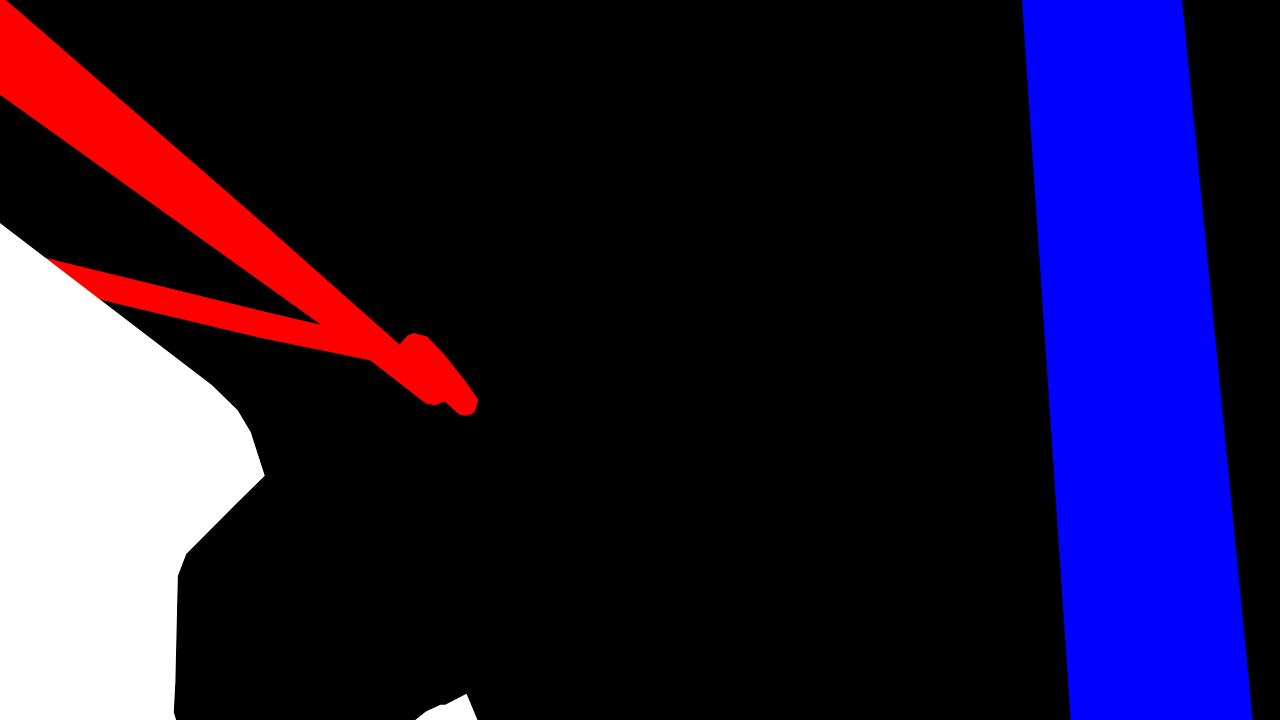
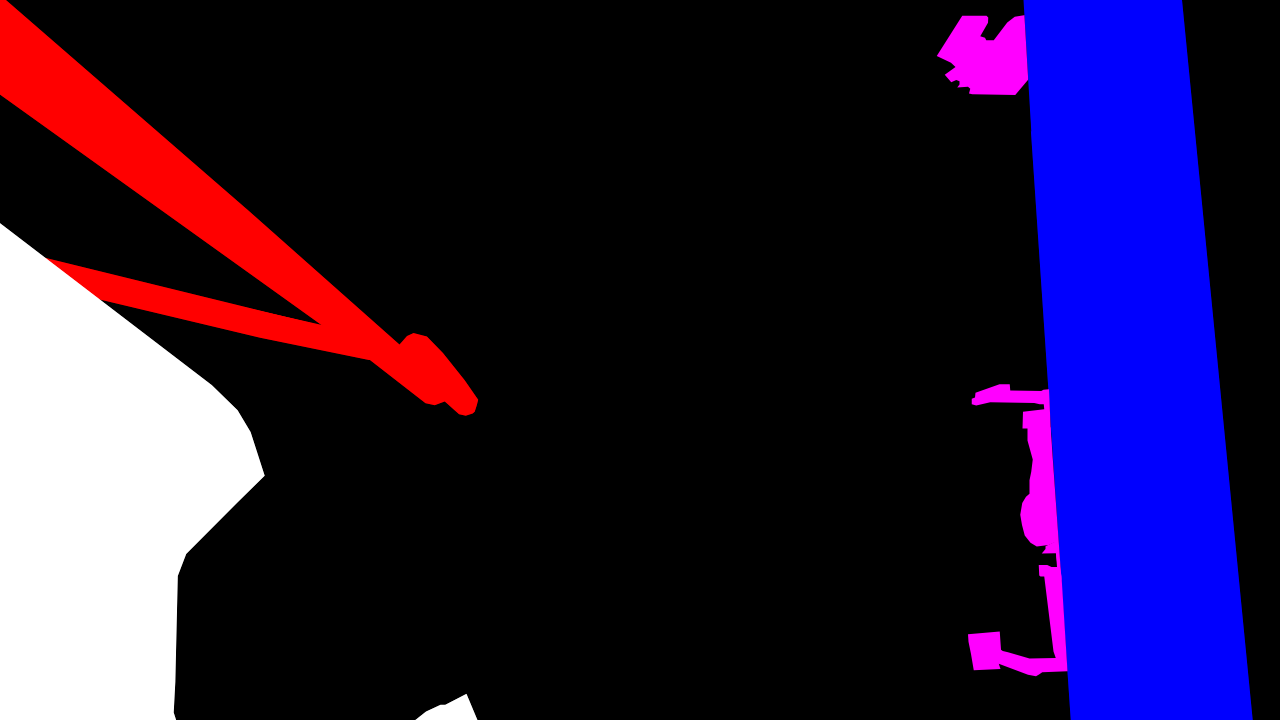
Add option -v to process_png.py

Changed region(s): [[0.75, 0.5194, 0.8438, 0.9472], [0.7188, 0.0, 0.8125, 0.1528]]

diff --git a/process_png.py b/process_png.py
@@ -4,12 +4,13 @@ from model import load_model
 from os import listdir
 from os.path import join, isfile
 from argparse import ArgumentParser
-from utils import image_to_tensor, get_device, probs_to_image, load_config
+from utils import image_to_tensor, get_device, probs_to_image, load_config, visualize
 from cv2 import imread, imwrite
 
 
 def main():
     parser = ArgumentParser(description='Segmenting .png files')
+    parser.add_argument('-v', action='store_true', required=False, default=False, help='Mix input and output')
     parser.add_argument('input_dir', type=str, help='Input directory')
     parser.add_argument('output_dir', type=str, help='Output directory')
     args = parser.parse_args()
@@ -21,9 +22,12 @@ def main():
         path = join(args.input_dir, fn)
         if fn.endswith('.png') and isfile(path):
             print('Processing %s' % path)
-            data = image_to_tensor(imread(path), device=device)
+            source = imread(path)
+            data = image_to_tensor(source, device=device)
             data = model(data)[0]
             result = probs_to_image(data)
+            if args.v:
+                result = visualize(source, result)
             imwrite(join(args.output_dir, fn), result)
     print('Completed')
 
